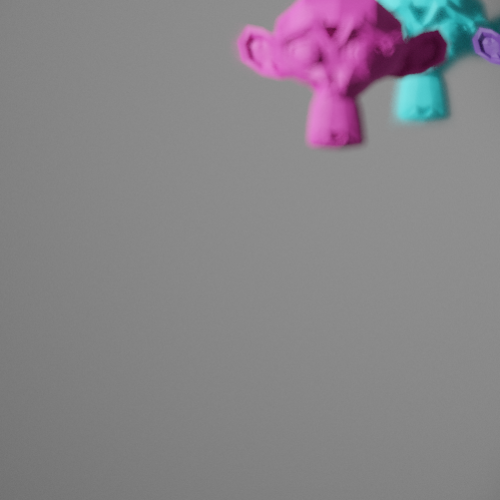
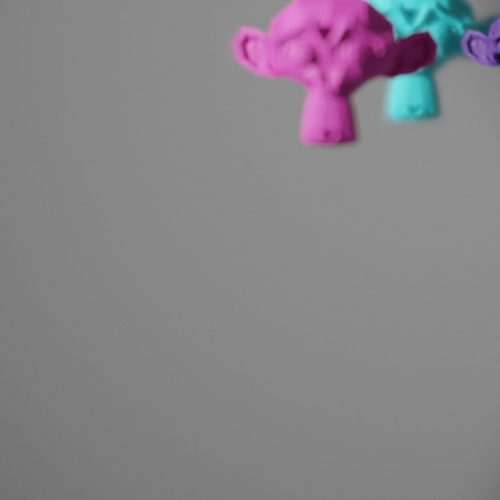
Attempting to Fix Some Aligning

Changed region(s): [[0.6, 0.0, 1.0, 0.3], [0.45, 0.0, 0.6, 0.15]]

diff --git a/PlenopticViewer/HDR.py b/PlenopticViewer/HDR.py
@@ -95,16 +95,12 @@ def align_images(name='HDR'):
     else:
         arrayImages = depth.read_images('par')
         size = parallax.mml_size('par')
-        # convert the center image to greyscale
-        centreImage = cv.cvtColor(arrayImages[int((size - 1) / 2), int((size - 1) / 2)],  cv.COLOR_BGR2GRAY)
-        centreImage = np.float32(centreImage)
         # window to reduce edge effects
         imageSize = arrayImages[1, 1].shape[0]
-        center = int(imageSize / 2)
         hannW = cv.createHanningWindow([imageSize, imageSize], cv.CV_32F)
 
-    shift = np.zeros([size, size, 2])  # 2D shift therefore two shift values for each MML
-    newShift = np.zeros([size * size, 2])
+    newShift = np.zeros([size*size, 2])
+    shift = np.zeros([size,size, 2])
     vertList = np.zeros([(size-1)*(size-1), 1])
     horList = np.zeros([(size - 1) * (size - 1), 1])
 
@@ -124,7 +120,6 @@ def align_images(name='HDR'):
                 horList[i * (size - 1) + j] = alignMTB.calculateShift(curImHor, prevIm)[1]
 
             else:
-                cv.imshow(str(i+j), arrayImages[i, j])
                 prevIm = cv.cvtColor(arrayImages[i, j], cv.COLOR_BGR2GRAY)
                 prevIm = np.float32(prevIm)
                 curImVert = cv.cvtColor(arrayImages[i, j+1], cv.COLOR_BGR2GRAY)
@@ -134,52 +129,55 @@ def align_images(name='HDR'):
                 vertList[i*(size-1)+j] = cv.phaseCorrelate(prevIm, curImVert, hannW)[0][1]
                 horList[i*(size-1)+j] = cv.phaseCorrelate(prevIm, curImHor, hannW)[0][0]
 
-    print(vertList)
-    print(horList)
+    # print(horList)
+    # print(vertList)
 
-    # find the median horizontal and vertical shifts and use this for all the images (spacing is even)
-    medHor = np.mean(horList)
-    medVert = np.mean(vertList)
+    if name == 'HDR':
+        # find the median horizontal and vertical shifts and use this for all the images (spacing is even)
+        medHor = np.median(horList)
+        medVert = np.median(vertList)
 
-    if medHor == medVert:
-        print('Success: shift up matched shift across')
+        # for HDR take the median value of the shifts (there is variation here)
+        for i in range(0, size):
+            for j in range(0, size):
+                newShift[i * size + j, 1] = medHor * -(j - int((size - 1) / 2))
+                newShift[i * size + j, 0] = medVert * -(i - int((size - 1) / 2))
+    else:
+        horShiftLine = np.zeros([size-1, 1])
+        vertShiftLine = np.zeros([size-1, 1])
+        for k in range(0, size-1):
+            horShiftLine[k] = int(abs(np.median(horList[k*(size-1):k*(size-1)+1])))
+            vertShiftLine[k] = int(abs(np.median(vertList[k*(size-1):k*(size-1)+1])))
 
-    # make list of new shifts
-    for i in range(0, size):
-        for j in range(0, size):
-            newShift[i * size + j, 1] = medHor * -(j - int((size - 1) / 2))
-            newShift[i * size + j, 0] = medVert * -(i - int((size - 1) / 2))
+    # print(vertShiftLine)
 
-    # print(shift)
-    # print(newShift)
-
-    # shift the image by the new shift values
-    for i in range(0, size * size):
-        shiftImages = shift_image(images[i], newShift[i])
-        if name == 'HDR':
+    # shift the image by the new shift values if doing HDR
+    if name == 'HDR':
+        for i in range(0, size * size):
+            shiftImages = shift_image(images[i], newShift[i])
             imagesOutput.append(shiftImages)
 
-        # crop the images for reconstruction
-        else:
-            vertShift = int(newShift[i][0])
-            horShift = int(newShift[i][1])
-            # print(str(i), ' horizontal shift: ', horShift, ' vertical shift: ', vertShift)
-            imageSize = shiftImages.shape[0]
-            if horShift < 0:
-                if vertShift < 0:
-                    cropImage = shiftImages[0:(imageSize - abs(horShift)), 0:(imageSize - abs(horShift))]
-                else:
-                    cropImage = shiftImages[0:(imageSize - abs(horShift)), abs(vertShift):imageSize]  # correct
-            else:
-                if vertShift < 0:
-                    cropImage = shiftImages[abs(horShift):imageSize, 0:(imageSize - abs(vertShift))]
-                else:
-                    cropImage = shiftImages[abs(horShift):imageSize, abs(vertShift):imageSize]
+    # # crop the images for reconstruction (not used)
+    # else:
+    #     vertShift = int(newShift[i][0])
+    #     horShift = int(newShift[i][1])
+    #     # print(str(i), ' horizontal shift: ', horShift, ' vertical shift: ', vertShift)
+    #     imageSize = shiftImages.shape[0]
+    #     if horShift < 0:
+    #         if vertShift < 0:
+    #             cropImage = shiftImages[0:(imageSize - abs(horShift)), 0:(imageSize - abs(horShift))]
+    #         else:
+    #             cropImage = shiftImages[0:(imageSize - abs(horShift)), abs(vertShift):imageSize]  # correct
+    #     else:
+    #         if vertShift < 0:
+    #             cropImage = shiftImages[abs(horShift):imageSize, 0:(imageSize - abs(vertShift))]
+    #         else:
+    #             cropImage = shiftImages[abs(horShift):imageSize, abs(vertShift):imageSize]
+    #
+    #     imagesOutput.append(cropImage)
 
-            imagesOutput.append(cropImage)
-
-
-    return imagesOutput, medHor, medVert
+    #image output blank for image reconstructoin, shift values blank for HDR
+    return imagesOutput, horShiftLine, vertShiftLine
 
 
 # translating the image by a shift matrix using the transformation matrix

diff --git a/PlenopticViewer/depth.py b/PlenopticViewer/depth.py
@@ -117,44 +117,65 @@ def read_images(name, mode='normal'):
     return images
 
 
-# function to remove barrel distortion on the image
-def remove_barrel(image):
-    width = image.shape[1]
-    height = image.shape[0]
-
-    distCoeff = np.zeros((4, 1), np.float64)
-    # TODO: add your coefficients here!
-    k1 = -2.0e-4  # negative to remove barrel distortion
-    k2 = 0.0
-    p1 = 0.0
-    p2 = 0.0
-
-    distCoeff[0, 0] = k1
-    distCoeff[1, 0] = k2
-    distCoeff[2, 0] = p1
-    distCoeff[3, 0] = p2
-
-    # assume unit matrix for camera
-    cam = np.eye(3, dtype=np.float32)
-
-    cam[0, 2] = width / 2.0  # define center x
-    cam[1, 2] = height / 2.0  # define center y
-    cam[0, 0] = 10.  # define focal length x
-    cam[1, 1] = 10.  # define focal length y
-
-    # here the undistortion will be computed
-    dst = cv.undistort(image, cam, distCoeff)
-
-    # cv.imshow('dst', dst)
-    return dst
-
-
+# function to calibrate the camera and remove associated distortion
 def camera_calibrate():
-    images = read_images('depth')
-    size = parallax.mml_size('depth')
+    # termination criteria
+    criteria = (cv.TERM_CRITERIA_EPS + cv.TERM_CRITERIA_MAX_ITER, 30, 0.001)
+    # prepare object points, like (0,0,0), (1,0,0), (2,0,0) ....,(6,5,0)
+    objp = np.zeros((7 * 7, 3), np.float32)
+    objp[:, :2] = np.mgrid[0:7, 0:7].T.reshape(-1, 2)
+    # Arrays to store object points and image points from all the images.
+    objpoints = []  # 3d point in real world space
+    imgpoints = []  # 2d points in image plane.
+    images = read_images('cal')
 
-    image1 = images[int((size * size) / 2)]
-    retval, corners = cv.findChessboardCorners(image1, patternSize, flags)
+    size = images.shape[0]
+    print(size)
+
+    for i in range(0, size):
+        for j in range(0, size):
+            img = images[i, j]
+            gray = cv.cvtColor(img, cv.COLOR_BGR2GRAY)
+            # Find the chess board corners
+            ret, corners = cv.findChessboardCorners(gray, (7, 7), None)
+            # If found, add object points, image points (after refining them)
+            if ret == True:
+                objpoints.append(objp)
+                corners2 = cv.cornerSubPix(gray, corners, (7, 7), (-1, -1), criteria)
+                imgpoints.append(corners)
+                # Draw and display the corners
+                cv.drawChessboardCorners(img, (7, 7), corners2, ret)
+                # cv.imshow('img', img)
+                # cv.waitKey(0)
+
+    # find the points necessary for camera callibration
+    ret, mtx, dist, rvecs, tvecs = cv.calibrateCamera(objpoints, imgpoints, gray.shape[::-1], None, None)
+
+    #read the required set of images (the parallax set for this application
+    imgArray = read_images('par')
+    for i in range(0, size):
+        for j in range(0, size):
+            img = imgArray[i, j]
+            h, w = img.shape[:2]
+            newcameramtx, roi = cv.getOptimalNewCameraMatrix(mtx, dist, (w, h), 1, (w, h))
+
+            # undistort
+            mapx, mapy = cv.initUndistortRectifyMap(mtx, dist, None, newcameramtx, (w, h), 5)
+            dst = cv.remap(img, mapx, mapy, cv.INTER_LINEAR)
+            # crop the image
+            x, y, w, h = roi
+            x = x+10
+            y = y+10
+            # print('x :',x, ' y:  ',y, ' w: ',w, ' h: ',h)
+            dst = dst[y:y + h - 10, x:x + w - 10]
+            # resize the altered image to 500 pixels squared
+            dst = cv.resize(dst, (500, 500))
+            filename = 'ParallaxAltered/' + parallax.image_filename('par', j+1, i+1)
+            cv.imwrite(filename, dst)
+            # cv.imshow('undistort', dst)
+            # cv.waitKey(0)
+
+
 
 def depth_calculate(baseline=3, focalLength=4):
     images = read_images('depth')

diff --git a/PlenopticViewer/home.py b/PlenopticViewer/home.py
@@ -14,6 +14,8 @@ def initial_tasks():
     parallax.im_resize('par')
     parallax.im_resize('HDR')
     parallax.im_resize('cal')
+    # calibrate the camera and remove distortion
+    depth.camera_calibrate()
     root.destroy()
 
 
@@ -128,36 +130,49 @@ class Reconstructed(tk.Frame):
 
 
 def reconstruct_image():
-    [a, shiftHor, shiftVert] = HDR.align_images('par')
-    shiftHor = abs(int(shiftHor))
-    shiftVert = abs(int(shiftVert))
+    [a, horShiftLine, vertShiftLine] = HDR.align_images('par')
     imageSet = depth.read_images('par')
-    print(shiftVert)
-    print(shiftHor)
+
+    horShiftLine = np.concatenate(([[0]], np.flip(vertShiftLine)), axis=0)
+    vertShiftLine = np.concatenate(([[0]], np.flip(horShiftLine)), axis=0)
+
+    print('horizontal line shift', horShiftLine)
+    print('vertical line shift', vertShiftLine)
 
     size = parallax.mml_size('par')
     imageSize = imageSet[1, 1].shape[0]
     # create an empty array to fill with the reconstructed image
-    imageReconstruct = np.zeros([imageSize+shiftVert*2, imageSize+shiftHor*2, 3], dtype=np.uint8)
-    print(imageReconstruct.shape)
+    horSize = imageSize
+    vertSize = imageSize
+
+    for i in range(0, horShiftLine.shape[0]):
+        horSize = int(horSize + horShiftLine[i])
+        vertSize = int(vertSize + vertShiftLine[i])
+
+    imageReconstruct = np.zeros([vertSize, horSize, 3], dtype=np.uint8)
+    print('size of full image: ', imageReconstruct.shape)
 
     # populate array
-    for i in range(0, size):
-        for j in range(0, size):
-            lowerHor = i*shiftHor
-            upperHor = i*shiftHor+imageSize
-            lowerVert = j*shiftVert
-            upperVert = j*shiftVert+imageSize
-            # print('horizontal- Upper:', upperHor, 'Lower:', lowerHor)
-            # print('vertical- Upper:', upperVert, 'Lower:', lowerVert)
+    for i in range(0, size):  # do for half the image
+        for k in range(0, horShiftLine.shape[0]):
+            lowerHor = int(i * horShiftLine[k])
+            upperHor = int(i * horShiftLine[k] + imageSize)
+            for j in range(0, size):
+                lowerVert = 0
+                for z in range(0, horShiftLine.shape[0]):
+                    lowerVert = int(lowerVert + vertShiftLine[z])
+                    upperVert = int(imageSize +lowerVert)
+                    print(vertShiftLine[z])
+                    print('horizontal- Upper:', upperHor, 'Lower:', lowerHor)
+                    print('vertical- Upper:', upperVert, 'Lower:', lowerVert)
+                    imageReconstruct[lowerVert:upperVert, lowerHor: upperHor] = imageSet[i*size+k, j*size+z]
+                    cv.imshow('recon', imageReconstruct)
+                    cv.waitKey(0)
 
-            imageReconstruct[lowerVert:upperVert, lowerHor: upperHor] = imageSet[i, j]
-            cv.imshow('reconstructed', imageReconstruct)
-            cv.waitKey(0)
 
-    # put the middle image in for best result
-    middle = int((size-1)/2)
-    imageReconstruct[shiftVert:shiftVert+imageSize, shiftHor: shiftHor+imageSize] = imageSet[middle, middle]
+    # # put the middle image in for best result
+    # middle = int((size-1)/2)
+    # imageReconstruct[shiftVert:shiftVert+imageSize, shiftHor: shiftHor+imageSize] = imageSet[middle, middle]
 
     # change image into a form that works for tkinter
     imageReconstruct = cv.cvtColor(imageReconstruct, cv.COLOR_BGR2RGB)

diff --git a/PlenopticViewer/parallax.py b/PlenopticViewer/parallax.py
@@ -140,7 +140,7 @@ def im_resize(name):
     if name == 'HDR':
         diff = int(diff*1.5)
     elif name == 'par':
-        diff = int(diff*1.6)
+        diff = int(diff*1.5)
 
     for i in range(1, mmlSize + 1):
         for j in range(1, mmlSize + 1):
